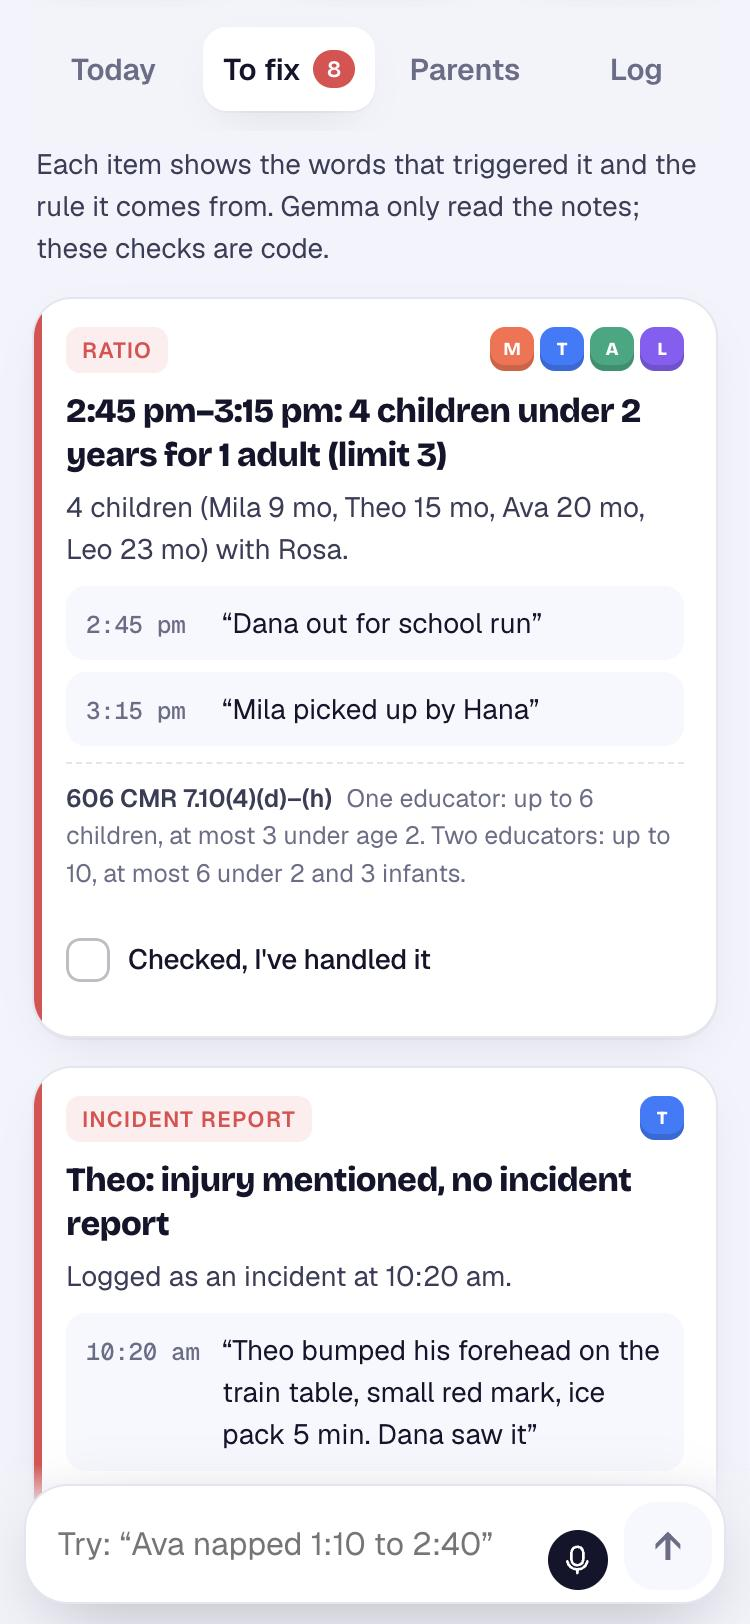
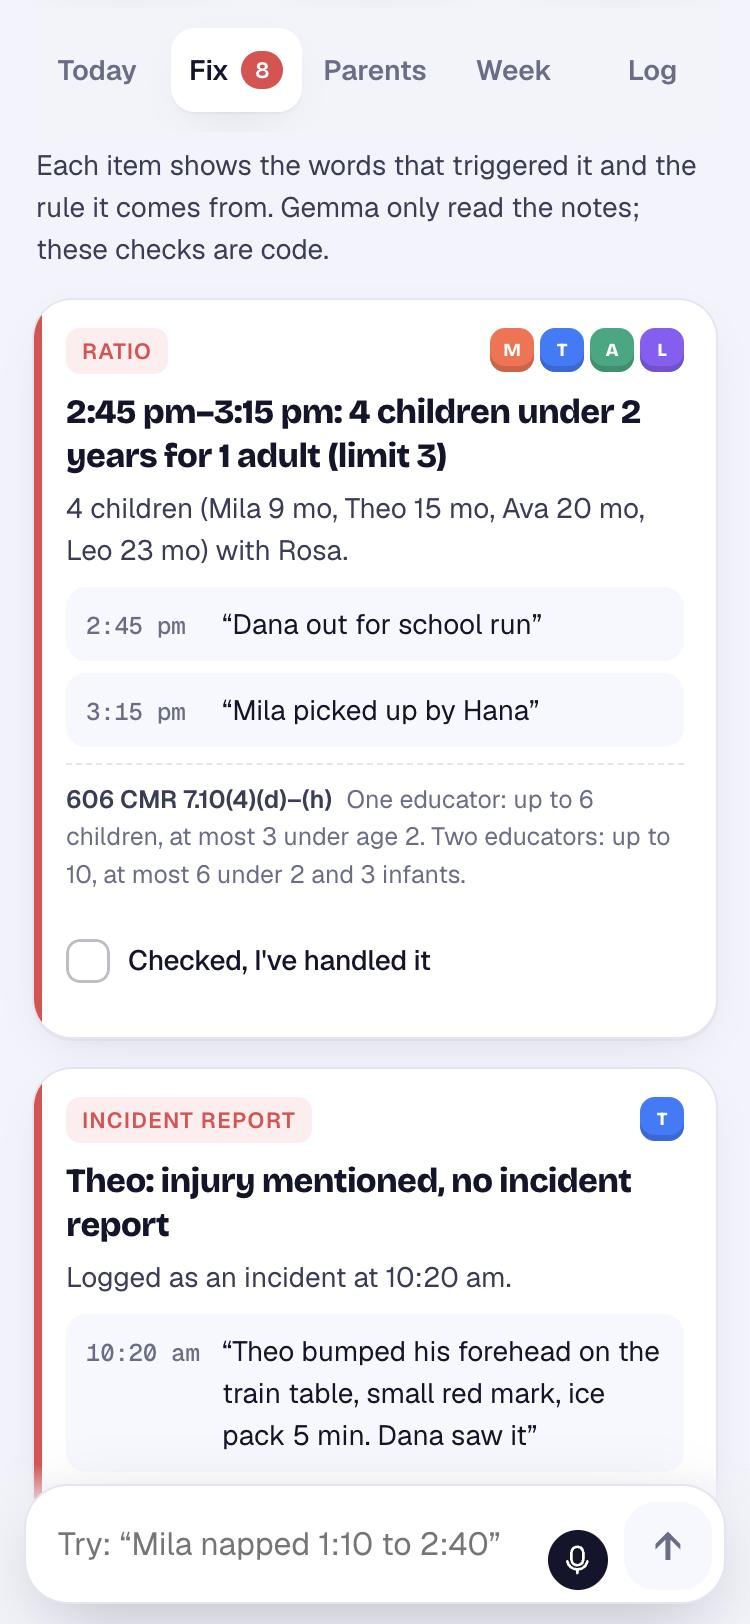
Post screenshots (week, timers), final post text

diff --git a/docs/post.md b/docs/post.md
@@ -4,7 +4,7 @@ It's 2:45 pm at a home daycare. Two toddlers just woke up, the baby is fussing, 
 
 Four of the children in the house are under two. Massachusetts allows one adult to have up to six children, but [no more than three under age two](https://www.law.cornell.edu/regulations/massachusetts/606-CMR-7-10). For the next 30 minutes the house is out of ratio, and nobody notices. It's in the notes. It just isn't anywhere anyone will look.
 
-Earlier, between 12:50 and 1:25, 35 minutes passed without a check on the sleeping baby. The rule is every 15 minutes. That's in the notes too.
+Earlier, 35 minutes passed without a check on the sleeping baby. The rule is every 15. That's in the notes too.
 
 (Rosa, Dana and the kids are invented. The demo day is fictional, and so is every test day below.)
 
@@ -14,12 +14,7 @@ Earlier, between 12:50 and 1:25, 35 minutes passed without a check on the sleepi
 
 Cubby is a daily-report and licensing-log assistant for **home daycare providers**. Running a licensed daycare out of your own home is a classic side business, and one of the most paperwork-heavy. Child Care Aware of America counted [94,227 licensed family child care homes in 2023](https://www.childcareaware.org/?p=76062) across the 39 states with data, down 12% since 2019.
 
-Every day, a provider owes two kinds of paperwork:
-
-- **Every parent** wants a daily sheet: what they ate, how long they slept, diapers, mood, anything that happened.
-- **The licensing inspector** wants accurate logs: sign-in and sign-out times, sleep checks, medication with consent, incident reports, ratios.
-
-Today most providers write these from memory at nap time, or pay for an app. Here's what the apps I checked publish (2026-10-18):
+Every day a provider owes each parent a daily sheet (food, sleep, diapers, mood) and owes the licensing inspector accurate logs (sign-ins, sleep checks, medication, incidents, ratios). Most write them from memory at nap time, or pay for an app. Here's what the apps I checked publish (2026-10-18):
 
 | App | Published price |
 |---|---|
@@ -32,7 +27,7 @@ None of those pricing pages mention medication consent or incident-report checks
 **How it works:**
 
 1. **Capture.** Type or hold the mic and talk. "Ava and Leo napped 1:10 to 2:40" is one note about two children. Speech-to-text is Whisper running *in the browser*, so audio never leaves the phone.
-2. **Read.** Gemma turns each note into structured events: meals and how much, naps, sleep checks, diapers, incidents, medicine (name, dose, time, who gave it), mood, pickups. Every event carries the **exact words** it came from. If a note is unclear ("the baby had a 4 oz bottle"), Gemma asks *which child?* instead of guessing.
+2. **Read.** Gemma turns each note into events (meals, naps, sleep checks, diapers, incidents, medicine, pickups), each carrying the **exact words** it came from. If a note is unclear ("the baby had a 4 oz bottle"), Gemma asks *which child?* instead of guessing.
 3. **Check.** Plain code, no model, checks every rule in Massachusetts' family child care regulations ([606 CMR 7.00](https://www.law.cornell.edu/regulations/massachusetts/606-CMR-7-10)):
    - napping children checked at least every 15 minutes (7.10(7)(d))
    - ratio minute by minute from sign-in/out times (7.10(4))
@@ -42,7 +37,7 @@ None of those pricing pages mention medication consent or incident-report checks
    - late pickups, and times that can't be right
 
    **Every flag shows the note that caused it and the rule it comes from.**
-4. **Send.** Each parent gets a short sheet built from the checked events. Gemma can make it warmer or write it in Spanish, Portuguese, Haitian Creole, Arabic and more. Before anyone sees it, code checks every time, number, food and health word against the log. If Gemma added anything, the plain version is used. Injuries and medicine are **never re-worded**: they stay in the provider's exact words. And one parent's sheet never names another child ("Another child bit Leo on the arm…"). (A [public App Store review](https://apps.apple.com/us/app/id428376881) of another daycare app describes a Spanish machine translation that turned a child being "out" sick into a child who had "died".)
+4. **Send.** Each parent gets a short sheet built from the checked events. Gemma can warm it up or translate it, and code checks every time, number, food and health word against the log first; if Gemma added anything, the plain version is used. Injuries and medicine are **never re-worded**, and one parent's sheet never names another child ("Another child bit Leo on the arm…"). (A [public App Store review](https://apps.apple.com/us/app/id428376881) of another daycare app describes a Spanish machine translation that turned a child being "out" sick into a child who had "died".)
 5. **Inspector log.** One tap exports the day, or the whole week, as PDF or CSV. Each entry keeps the note it came from.
 
 **For a real program, not just the demo:**
@@ -60,6 +55,10 @@ None of those pricing pages mention medication consent or incident-report checks
 
 ![Ava's sheet in Spanish, checked against the log; the incident line stays exactly as logged](https://cubby-daycare.onrender.com/shots/sheet.jpg)
 
+![The week: flags, incidents and medicine per day, with a weekly inspector export](https://cubby-daycare.onrender.com/shots/week.jpg)
+
+![Local mode: Gemma 4 E4B read "Theo down for nap now" on the laptop, and a Temporal timer raised the sleep-check reminder (demo speed)](https://cubby-daycare.onrender.com/shots/timers.jpg)
+
 Try typing a note in the bottom bar (made-up names only, please), for example "Theo scraped his elbow on the fence at 4:30, bandaid, Rosa". Within a few seconds it shows up as an incident, and the To fix list grows by one, with a pre-filled report.
 
 ## Code
@@ -68,22 +67,16 @@ Try typing a note in the bottom bar (made-up names only, please), for example "T
 
 ## How I Built It
 
-**The split is the whole design: the model reads, code judges.** I didn't want an LLM deciding whether a baby's nap was safely supervised. So Gemma's only job is turning "checked all 1:40" into `{"type":"sleep_check","kids":["all"],"time":"1:40"}`. It isn't trusted even with that:
+**The split is the whole design: the model reads, code judges.** I didn't want an LLM deciding whether a baby's nap was safely supervised. So Gemma's only job is turning "checked all 1:40" into `{"type":"sleep_check","kids":["all"],"time":"1:40"}`. Even that isn't trusted:
+- names must be on the roster
+- times must parse ("1:10" means pm, and Whisper writes it as "110")
+- the quote must really be in the note
 
-- Names must be on the roster.
-- Times must parse (providers write "1:10" meaning pm, and Whisper writes it as "110").
-- The quoted words must really appear in the note, or the event is marked unverified.
-- "All" only counts if the note actually says all.
+Then about 250 lines of rule code run in the browser, so the day's data stays on the device.
 
-Then about 230 lines of rule code run in the browser, so the day's data stays on the device.
+A backstop catches what the model misses: code also scans the raw notes for injury and medicine words, so "goose egg on his forehead" raises a flag even if Gemma logs no incident.
 
-A backstop catches what the model misses. Code also scans the raw notes for injury and medicine words. If a provider writes "goose egg on his forehead" and Gemma doesn't log an incident, the flag still fires and says that code caught it.
-
-**Testing it honestly.** I wrote a generator for synthetic days with problems planted in every rule type, plus two hand-written days in a messy, spoken style ("um Clara had her Motrin three ml at like 10:15 I gave it"). The first 12 days were a dev set. Running it found three real bugs in my own code:
-
-- "had a few bites" of toast counted as an injury.
-- A 06:59 sign-in was read as 6:59 pm, so the whole day looked like it had no adult.
-- My generator put late pickups in the data that weren't in the answer key.
+**Testing it honestly.** I wrote a generator for synthetic days with problems planted in every rule type, plus two hand-written days in a messy, spoken style ("um Clara had her Motrin three ml at like 10:15 I gave it"). The first 12 days were a dev set, and they found real bugs in my code: "had a few bites" of toast counted as an injury, and a 06:59 sign-in was read as 6:59 pm.
 
 After fixing those, I committed a **held-out set** of 14 days, answer key included, before running it. The first run caught 37 of 37 with 6 false alarms. The table shows the latest run, after the fixes described below:
 
@@ -92,7 +85,7 @@ After fixing those, I committed a **held-out set** of 14 days, answer key includ
 | **Cubby** (Gemma reads, code checks) | **37** | **4** |
 | **Gemma alone** (same model, same rules in plain English, same notes) | 30 | 72 |
 
-Gemma alone missed 3 of the 4 ratio problems, because it doesn't count heads minute by minute. It also missed every 20-minute sleep-check gap on the hand-written day, and most of its false alarms were confused complaints about times. **Where Gemma alone wins:** it uses about a quarter of the tokens, and it caught every incident too.
+Gemma alone missed 3 of 4 ratio problems (it doesn't count heads minute by minute) and every 20-minute sleep-check gap on a hand-written day. **Where Gemma alone wins:** it uses about a quarter of the tokens, and it caught every incident too.
 
 Two of Cubby's first-run false alarms were "grapes cut in quarters" tripping my injury-word backstop, which I fixed after seeing it. The other 4 are real weaknesses:
 - a pretend doctor kit
@@ -104,10 +97,11 @@ The full report is in `docs/REPORT.md`.
 
 **Speed and cost per day of notes** (about 27 notes):
 
-- **Cloud** (Gemma 4 26B A4B on Google AI Studio): 34 s, about 6.7k tokens. Gemma 4 is listed as [free of charge on the free tier](https://ai.google.dev/gemini-api/docs/pricing), so the model costs $0, with rate limits. On a paid host, [OpenRouter lists it](https://openrouter.ai/google/gemma-4-26b-a4b-it) at $0.0675 per million input tokens and $0.225 per million output, so a day of notes costs about $0.001, or roughly 2 cents a month.
-- **Local** (Gemma 4 E4B through Ollama on an M4 Mac): about 109 s per day, $0 beyond electricity. On the two hand-written days it caught all 16 planted problems, with one more false alarm than the cloud model.
+- **Cloud** (Gemma 4 26B A4B): 34 s and about 6.7k tokens. That's [free on AI Studio's free tier](https://ai.google.dev/gemini-api/docs/pricing), or about $0.001 at [OpenRouter's price](https://openrouter.ai/google/gemma-4-26b-a4b-it).
+- **Local** (Gemma 4 E4B on Ollama, M4 Mac, in the real app): the demo day's 39 notes took 162 s, with all 9 planted problems flagged. On the held-out set it caught 37 of 37 with 18 false alarms: the small model misses more wake-ups and sign-outs, and code then flags them as missing.
+- **Fine-tuned 4B reader** (Qwen3.5-4B + LoRA trained on [Tinker](https://thinkingmachines.ai/tinker/) from Gemma's labels on 1,291 separate synthetic notes): 37 of 37 with 10 false alarms, at 3.5 s per day.
 
-**Stack:** a zero-build Node 26 TypeScript server, React with a small esbuild bundle, [React Bits](https://github.com/DavidHDev/react-bits) for the voice pill, counters and check animations, jsPDF for the export, and transformers.js for Whisper.
+**Stack:** Node 26, React with [React Bits](https://github.com/DavidHDev/react-bits) components, jsPDF, and transformers.js for Whisper.
 
 ## Why Does Open Innovation Matter?
 
@@ -115,24 +109,20 @@ Because the data is **children's**. Nap times, diapers, injuries and medicine ar
 
 With an open-weight model, the whole pipeline runs on the provider's own laptop. Gemma 4 E4B goes through Ollama, Whisper runs in the browser, and the rule engine runs in the page. No note, voice or photo goes to anyone. The hosted demo uses Google AI Studio *only* because every child in it is made up.
 
-It also keeps the business viable. Home providers complain in public reviews about per-child pricing they only found after a trial. Daily Connect's 6-kid plan is $12.99/month. With an open model, a day of reading costs a tenth of a cent hosted, or nothing locally. So I'd charge a **flat $9 a month for up to 12 children**, and the open-source version stays free to self-host.
+It also keeps the business viable. Providers complain in public reviews about per-child pricing they found after a trial. With an open model, a day of reading costs a tenth of a cent hosted, or nothing locally, so I'd charge a **flat $9 a month for up to 12 children**. The open-source version stays free to self-host.
 
 And openness lets anyone check the work. Every rule cites its regulation, every flag shows its evidence, and a provider can read the exact line of code that flagged them.
 
 ## Prize Categories
 
-- **Best Use of Gemma:** Gemma 4 does all of the reading: notes into events, questions instead of guesses, and warm or translated parent sheets. Cloud runs 26B A4B, local runs E4B. Both were measured against Gemma-alone on the same held-out days.
-- **Best Use of Render:** the demo runs as a Render web service built from the repo on every push.
-- **Best Use of ElevenLabs:** "Listen" reads the checked parent sheet aloud, for parents who'd rather hear the day than read it.
-- **Best Use of Sentry Agent Tracing:** every Gemma call is a `gen_ai.chat` span with the model, task and token counts. The spans never include note text or names.
-- **Best Use of Temporal:** each live "down for nap" note starts a `napWatch` workflow that reminds when a sleep check is overdue, and each arrival starts a `pickupWatch` workflow for closing time. In a test, I killed the worker 5 s into a 20 s timer and restarted it at 12 s; the reminder still fired at 20.1 s. It runs on the local Temporal dev server, not the hosted demo.
-- **Best Use of MongoDB Atlas:** it stores one thing, anonymous tester feedback from `/feedback.html`. No child data, by design.
+- **Gemma:** Gemma 4 does all the reading. It's measured on the held-out days in the cloud (26B: 37/37, 4 false alarms) and locally (E4B: 37/37, 18), against Gemma alone (30/37, 72).
+- **Render:** the live demo is a Render web service, built from the repo on every push.
+- **ElevenLabs:** "Listen" reads the checked parent sheet aloud.
+- **Sentry Agent Tracing:** every Gemma call is a `gen_ai.chat` span with model and token counts, and never note text or names.
+- **Temporal:** sleep-check and late-pickup timers are workflows. With the worker killed mid-timer and restarted, a 20 s reminder still fired at 20.1 s (local dev server only).
+- **Tinker:** a Qwen3.5-4B LoRA reader: 37/37 at 3.5 s per day, but 10 false alarms to Gemma's 4, so it's an experiment, not the default.
+- **MongoDB Atlas:** stores only anonymous tester feedback, never child data.
 
-**Honest limits:**
-- I wrote both the rules and the tests. The held-out days share the generator's templates, apart from the two hand-written ones.
-- Only Massachusetts is encoded, and one ratio clause (7–8 children with school-agers) isn't.
-- Whisper tiny mishears names ("Leo" became "Theo"), so the note stays editable before it's sent.
-- This isn't legal advice.
-- I don't have a first user yet. A 2-minute test kit is in `docs/TEST-KIT.md`, and I won't claim a user until one has actually tried it.
+**Honest limits:** I wrote the rules and the tests, and the generated held-out days share templates with the dev days (the two hand-written days don't). Only Massachusetts is encoded, minus one ratio clause. Whisper tiny mishears names, so notes stay editable. It isn't legal advice. And there's no first user yet: a 2-minute test kit is ready, and I won't claim a user until one has tried it.
 
 *How I used AI: I picked this idea and directed the build. Claude Code wrote the code, generated the synthetic test days, ran the evaluations and drafted this post from the repo's results. Every child, adult and note in the demo and the tests is invented.*
